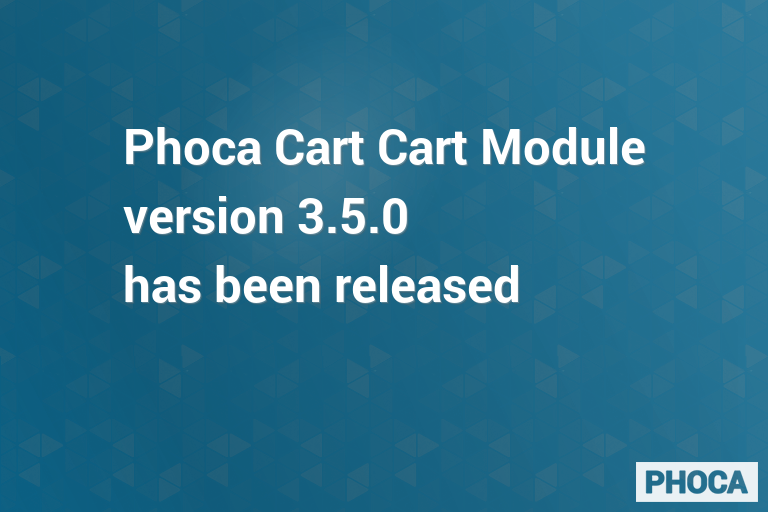
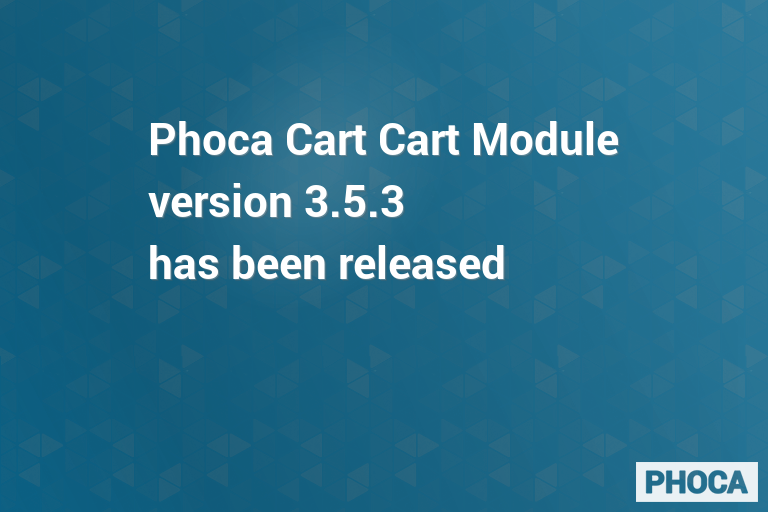
3.5.3

Changed region(s): [[0.1562, 0.2188, 0.8438, 0.5938]]

diff --git a/mod_phocacart_cart.php b/mod_phocacart_cart.php
@@ -35,8 +35,8 @@ $s = PhocacartRenderStyle::getStyles();
 $p									= array();
 $p['load_component_media']			= $params->get( 'load_component_media', 1 );
 
-$media = PhocacartRenderMedia::getInstance('main');
 if ($p['load_component_media'] == 1) {
+	$media = PhocacartRenderMedia::getInstance('main');
 	$media->loadBase();
 	$media->loadBootstrap();
 	$media->loadSpec();

diff --git a/README.MD b/README.MD
@@ -56,7 +56,7 @@ Phoca Cart Cart Module - a Joomla! CMS module which displays products ordered in
 
 ## Version
 
-3.5.0
+3.5.3
 
 
 
